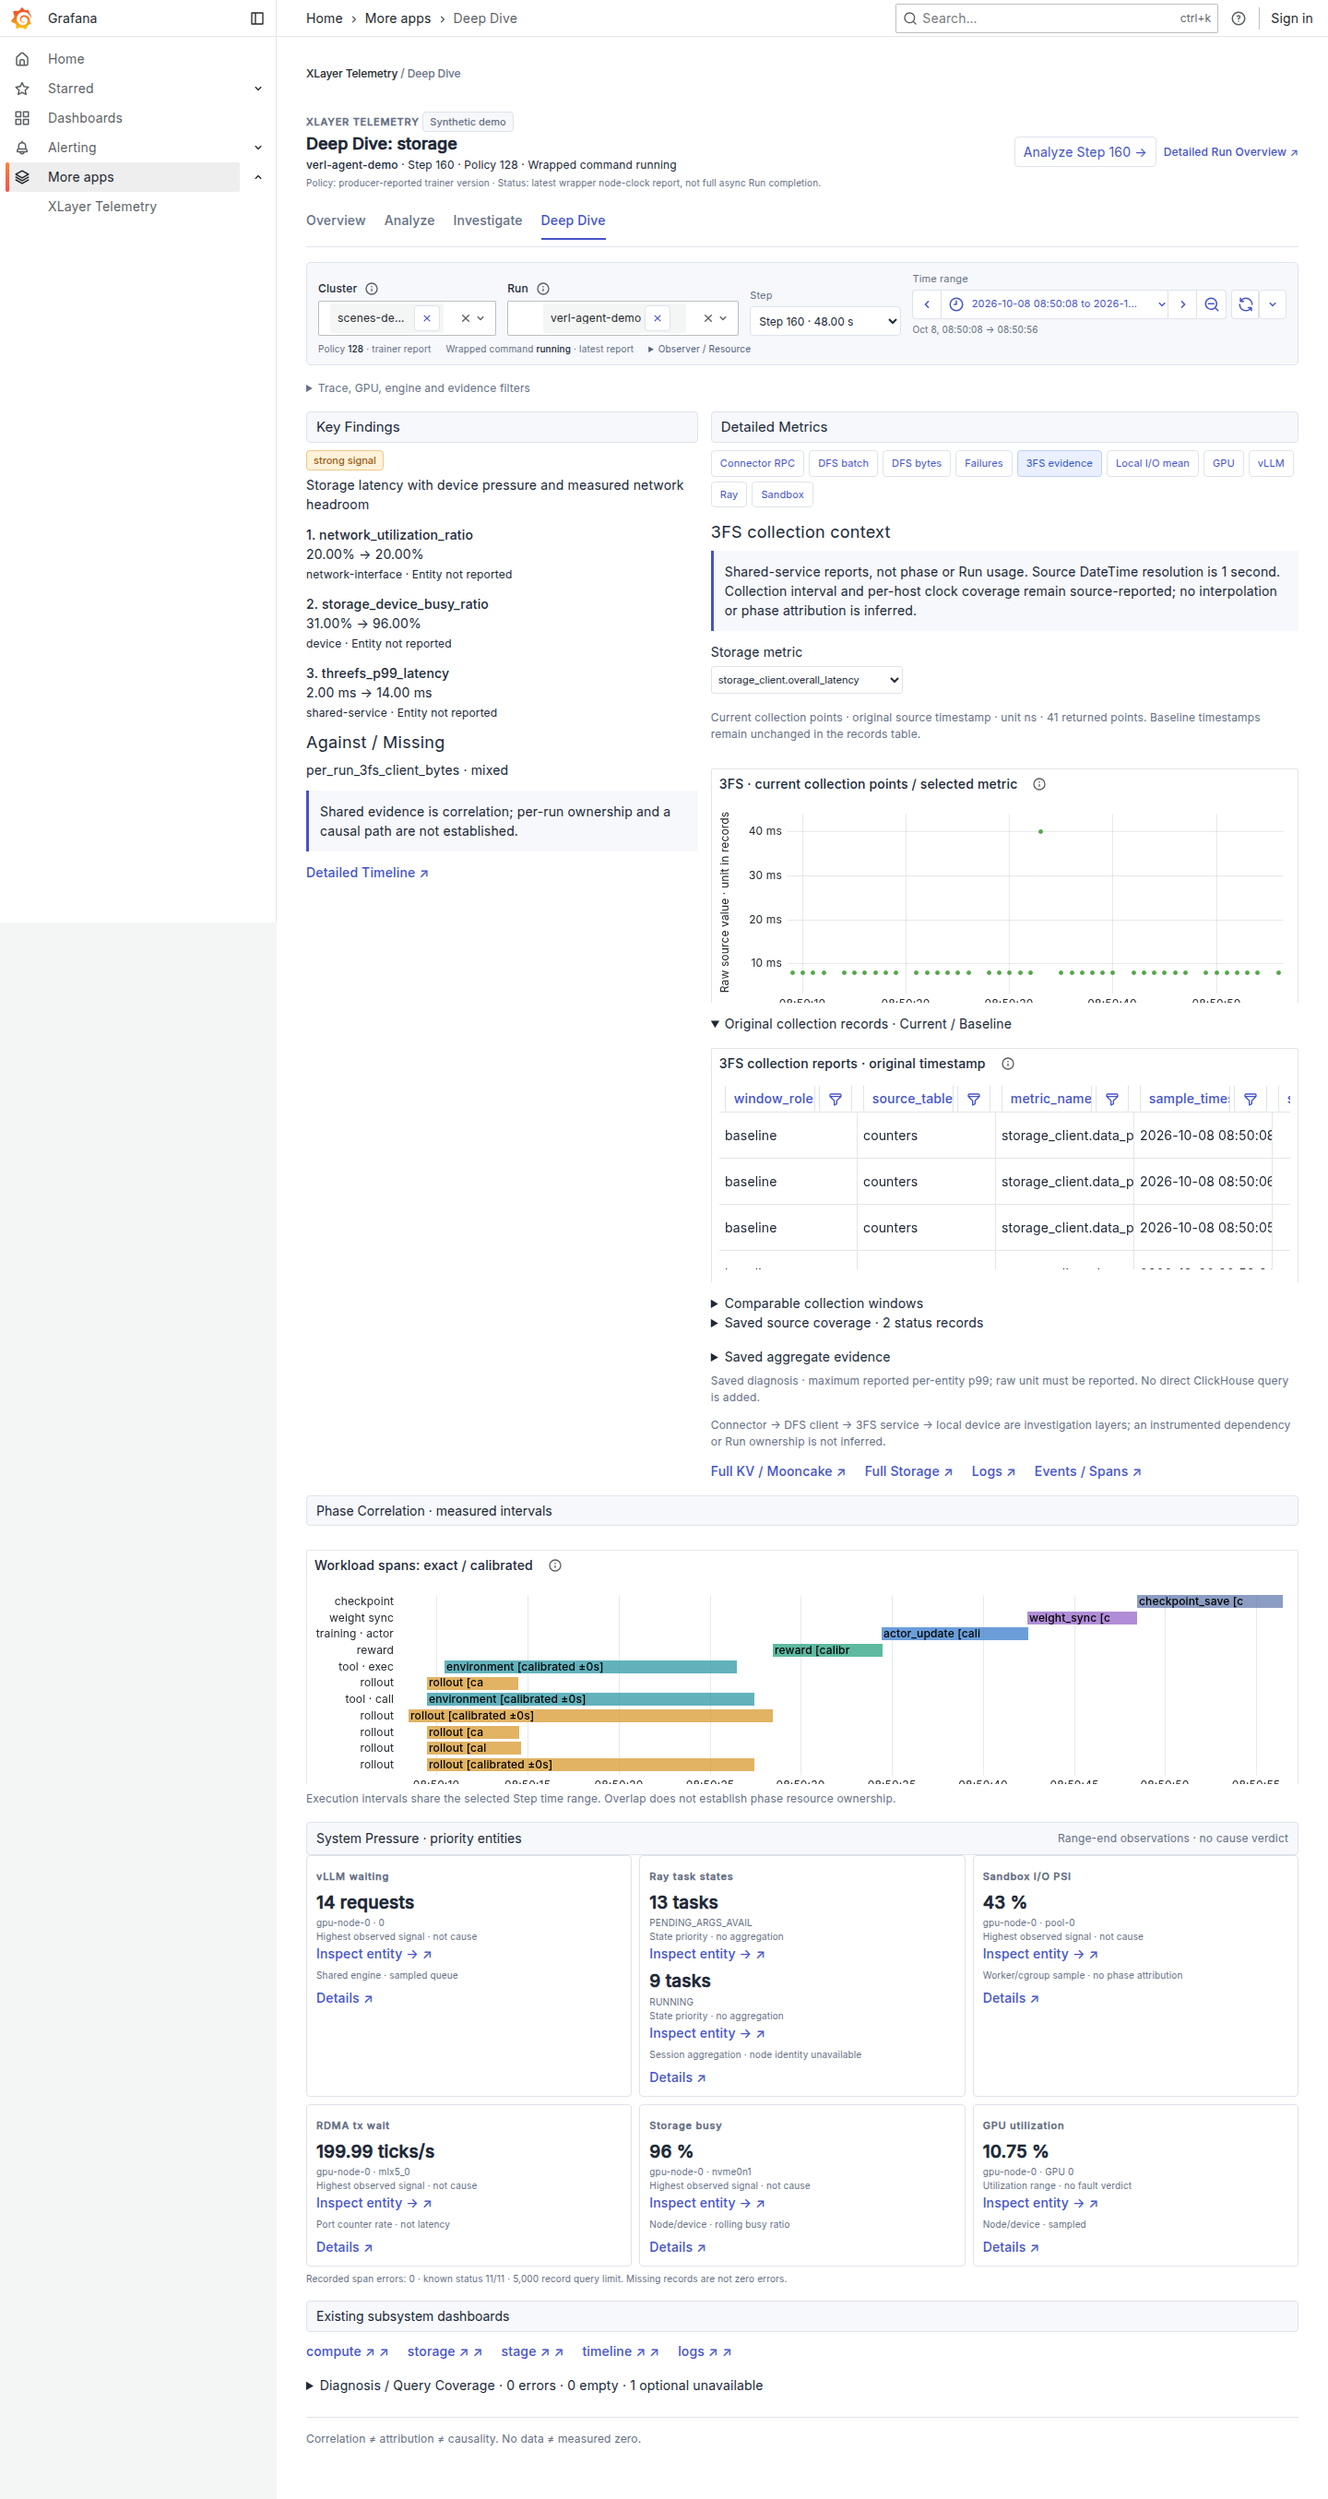
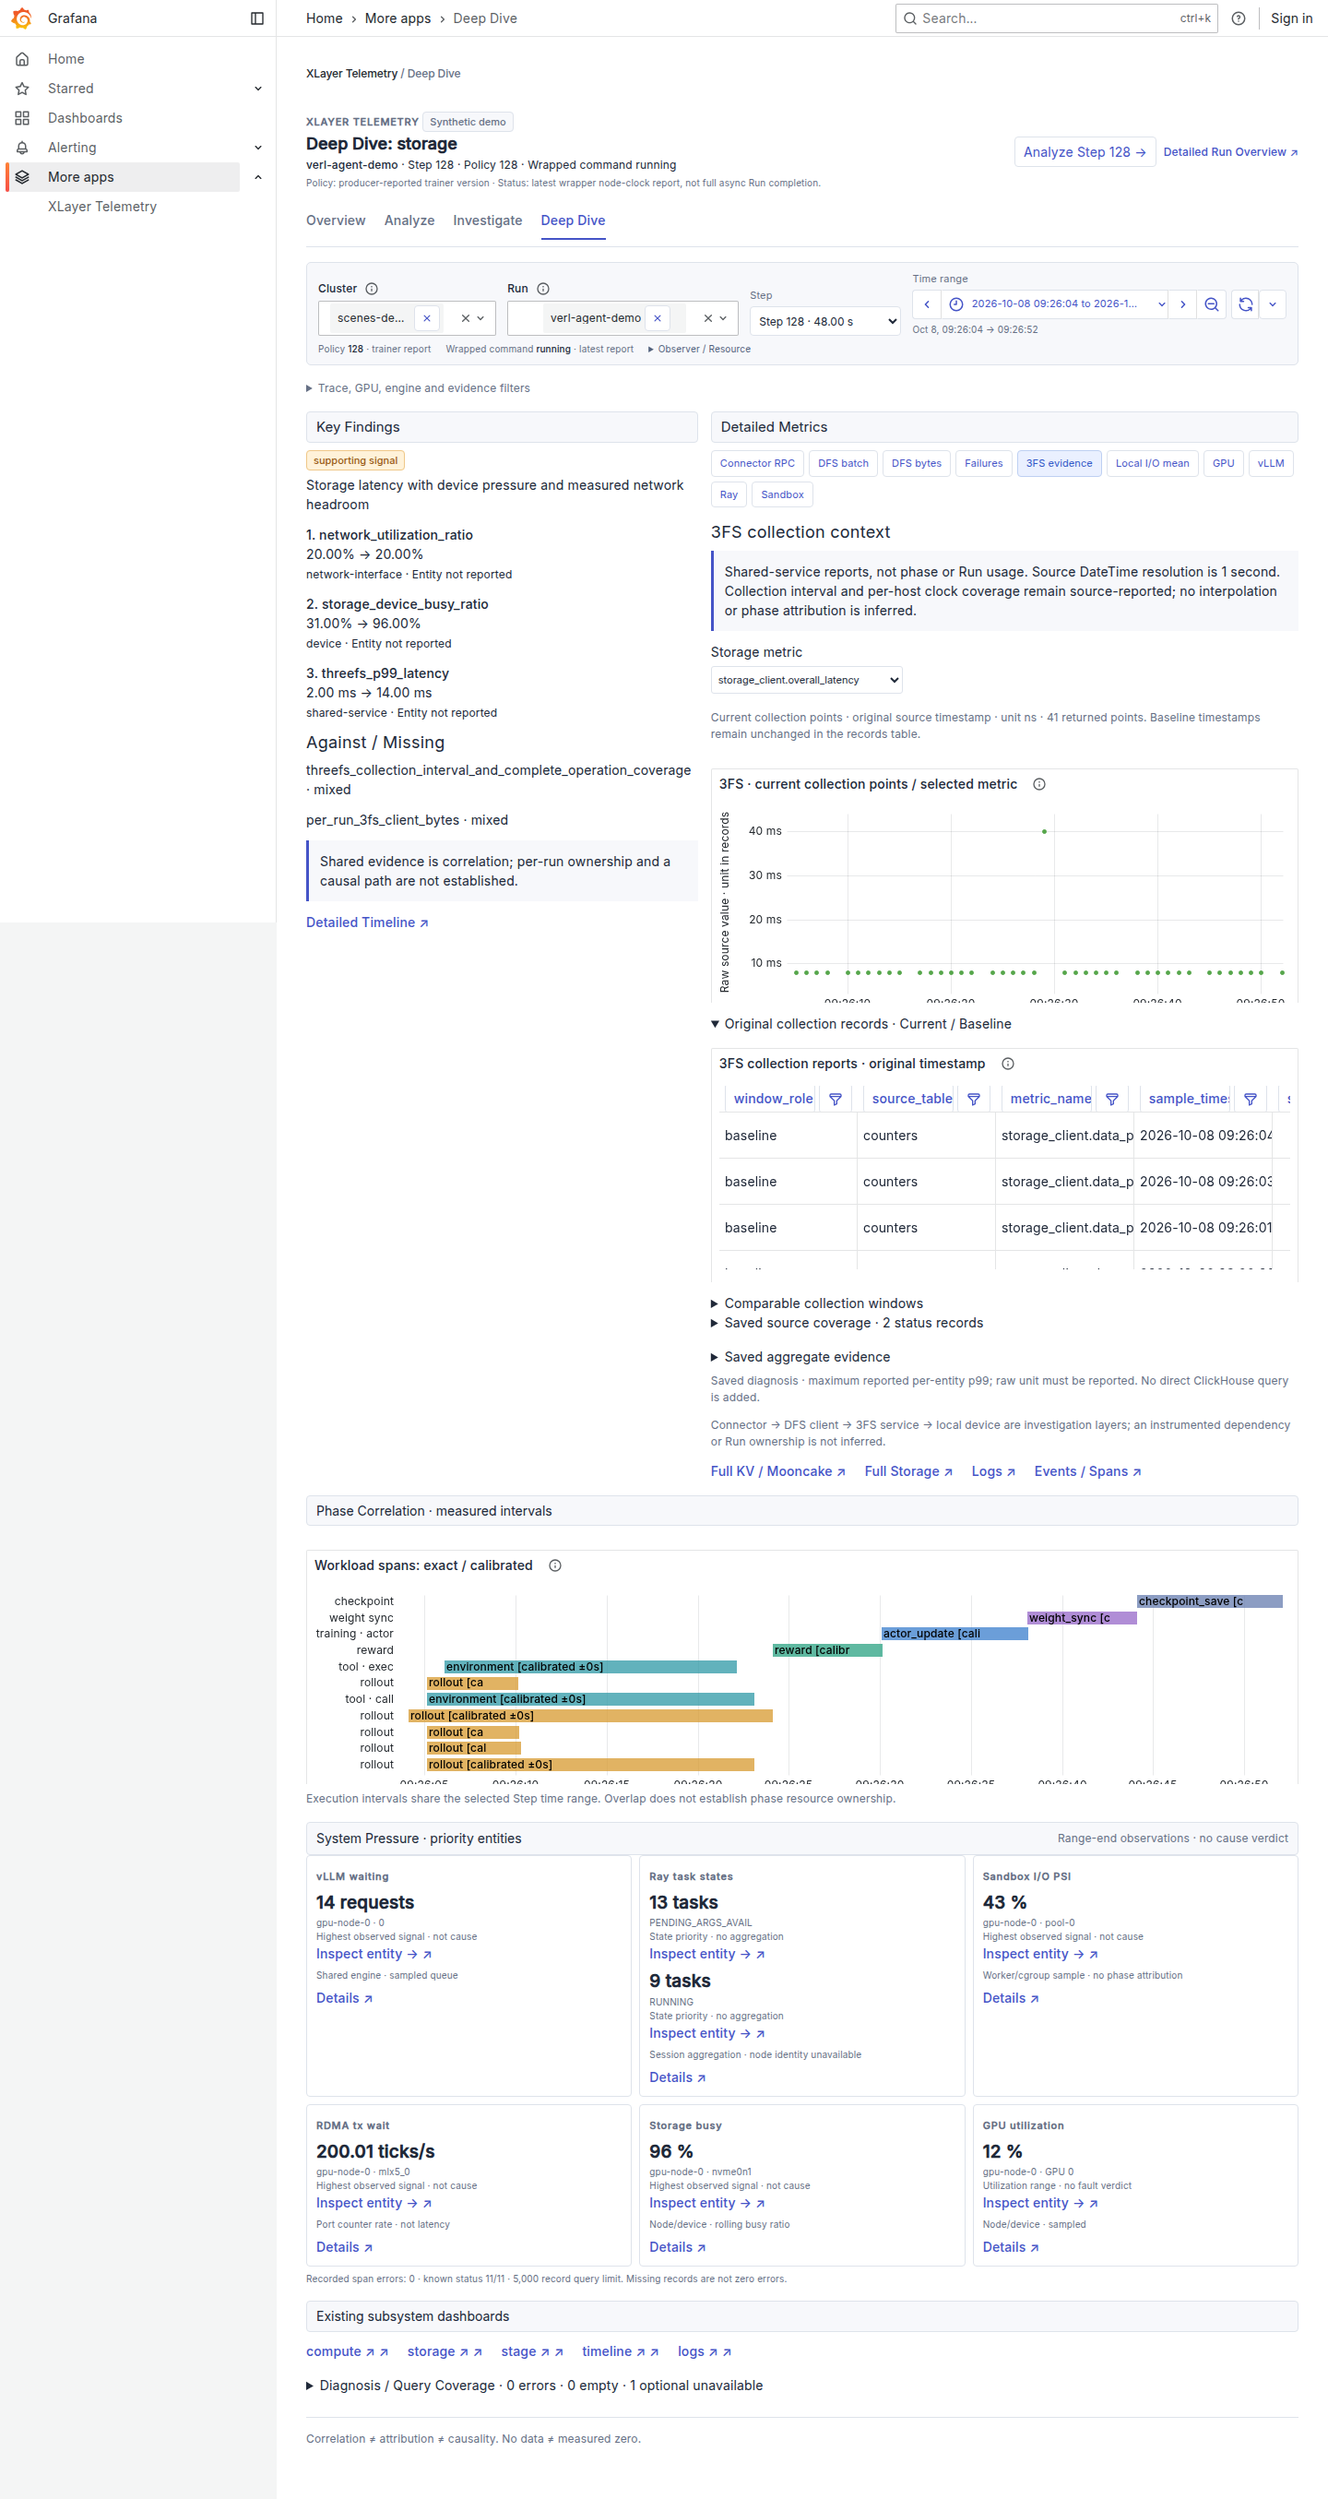
Preserve raw storage clock and producer comparison identity
Screen raw 3FS producer clocks independently of mapped application clocks.
Use structured series identities so delimiter-containing labels cannot
merge distinct producer observations in native Grafana plots. Preserve
reset-report amounts but withhold deltas for unequal window exposure.

Share collection coverage limits between production diagnosis and the
explicit synthetic demo. Update the actual Grafana screenshot, bounded
query cost measurement and P0 limitations in the Korean task guide.

Validate 1,457 CPU tests with real promtool and isolated ClickHouse (no
skips), actual Grafana journeys at 1440/1280/900/390 pixels, and strict docs
build and link checks. Stop owned test services and preserve user stacks.

diff --git a/xlayer_telemetry/analysis/storage_series.py b/xlayer_telemetry/analysis/storage_series.py
@@ -2,6 +2,8 @@
 from __future__ import annotations
 
 from collections import defaultdict
+import json
+import math
 from typing import Mapping
 
 from ..measurements import finite_number as finite
@@ -33,7 +35,11 @@ def validate_series_settings(settings: Mapping) -> dict:
 def _quality(window, rows, clock, settings, queried_at):
     hosts = sorted({row.get("labels", {}).get("host") for row in rows if row.get("labels", {}).get("host")})
     aliases = settings.get("host_clock_nodes", {})
-    nodes = {**clock.get("nodes", {}), **clock.get("producer_clock_screening", {}).get("nodes", {})}
+    # A mapped workload clock says nothing about uncalibrated ClickHouse
+    # producer timestamps. Only their raw OS/producer screening is usable.
+    nodes = (clock.get("system_clock_screening", {}).get("nodes", {})
+             if clock.get("scope") == "mapped_workload_to_prometheus_scrape_time" else clock.get("nodes", {}))
+    nodes = {**nodes, **clock.get("producer_clock_screening", {}).get("nodes", {})}
     aligned = bool(hosts) and clock.get("status") == "aligned" and all(
         aliases.get(host) in nodes and nodes[aliases[host]].get("status") == "aligned" for host in hosts)
     issues = ["collection_interval_unknown", "zero_suppression_or_loss_not_distinguishable"]
@@ -98,6 +104,10 @@ def collect_storage_series(client, current_window, baseline_window, *, settings,
     current, baseline = result.get("current", {}), result.get("baseline", {})
     eligible = all(entry.get("quality", {}).get("host_clock_coverage") == "screened_aligned" for entry in (current, baseline))
     result["comparison"]["eligible"] = eligible
+    windows = [entry.get("window", {}) for entry in (current, baseline)]
+    equal_exposure = all("start" in window and "end" in window for window in windows) and (
+        math.isclose(windows[0]["end"]-windows[0]["start"], windows[1]["end"]-windows[1]["start"], abs_tol=1e-6)
+        and math.ceil(windows[0]["end"])-math.ceil(windows[0]["start"]) == math.ceil(windows[1]["end"])-math.ceil(windows[1]["start"]))
     # Keep exact table+metric+producer population; window statistics are not
     # pooled quantiles or complete operation totals, even with aligned clocks.
     def groups(entry):
@@ -111,6 +121,7 @@ def collect_storage_series(client, current_window, baseline_window, *, settings,
     for key in sorted(a.keys() & b.keys()):
         table, metric, labels = key
         unit = settings.get("distribution_units", {}).get(metric) if table == "distributions" else a[key][0].get("unit")
+        status = "shared_report_window" if eligible else "clock_unverified"
         if table == "distributions":
             values = [[finite(row.get("max_observed_p99")) for row in group] for group in (a[key], b[key])]
             statistic = "maximum reported p99, not pooled p99"
@@ -123,12 +134,15 @@ def collect_storage_series(client, current_window, baseline_window, *, settings,
             if any(not group or any(value is None for value in group) for group in values):
                 continue
             now, before = sum(values[0]), sum(values[1])
+            if eligible and not equal_exposure:
+                status = "different_report_window_exposure"
         else:
             continue
         result["comparison"]["rows"].append({"metricName": metric, "labels": dict(labels), "table": table,
-            "current": now, "baseline": before, "delta": now-before if eligible else None,
-            "delta_percent": 100*(now-before)/abs(before) if eligible and before else None,
-            "unit": unit, "statistic": statistic, "comparison_status": "shared_report_window" if eligible else "clock_unverified"})
+            "current": now, "baseline": before, "delta": now-before if status == "shared_report_window" else None,
+            "delta_percent": 100*(now-before)/abs(before) if status == "shared_report_window" and before else None,
+            "unit": unit, "statistic": statistic, "comparison_status": status,
+            "host_clock_coverage": "screened_aligned" if eligible else "unknown"})
     return result
 
 
@@ -149,7 +163,8 @@ def project_storage_series(series, common):
                     "source_table": table, "metric_name": point["metricName"], "signal": point["metricName"],
                     "sample_timestamp_ms": point["timestamp_seconds"]*1000,
                     "sample_value": value, "unit": unit, "entity": entity, "source_host": point["labels"].get("host"),
-                    "series_key": f"{table}:{point['metricName']}:{entity}", "observation_scope": "shared-service",
+                    "series_key": json.dumps([table, point['metricName'], sorted(point['labels'].items())], ensure_ascii=False, separators=(",", ":")),
+                    "observation_scope": "shared-service",
                     "observation_type": "collection_report", "timestamp_resolution_seconds": 1,
                     "collection_interval": "unknown", "host_clock_coverage": quality.get("host_clock_coverage", "unknown"),
                     "phase_attribution": "not_established", "counter_kind": point.get("kind"),
@@ -159,6 +174,18 @@ def project_storage_series(series, common):
                     "ambiguous_sample": point.get("ambiguous_sample", False)})
                 rows[-1]["plot_eligible"] = value is not None and (reset or not point.get("ambiguous_sample", False))
     return rows
+
+
+def apply_collection_limits(candidates):
+    """Keep demo and production evidence subject to the same source limits."""
+    for candidate in candidates:
+        if any(str(item.get("signal", "")).startswith("threefs_") for item in candidate.get("evidence", [])):
+            missing = candidate.setdefault("missing_evidence", [])
+            issue = "threefs_collection_interval_and_complete_operation_coverage"
+            if issue not in missing:
+                missing.append(issue)
+            if candidate["state"] == "strong_signal":
+                candidate["state"] = "supporting_signal"
 
 
 def project_storage_summary(series, common):
@@ -183,8 +210,8 @@ def project_storage_summary(series, common):
             "source_table": row["table"], "current": row["current"], "baseline": row["baseline"],
             "delta_percent": row["delta_percent"], "unit": row["unit"], "statistic": row["statistic"],
             "comparison_status": row["comparison_status"],
-            "clock_status": "screened_aligned" if row["comparison_status"] == "shared_report_window" else "unknown",
-            "host_clock_coverage": "screened_aligned" if row["comparison_status"] == "shared_report_window" else "unknown",
+            "clock_status": row.get("host_clock_coverage", "screened_aligned" if row["comparison_status"] == "shared_report_window" else "unknown"),
+            "host_clock_coverage": row.get("host_clock_coverage", "screened_aligned" if row["comparison_status"] == "shared_report_window" else "unknown"),
             "quality_issues": "collection_interval_unknown, returned_reports_only",
             "entity": ",".join(f"{key}={value}" for key, value in sorted(row["labels"].items())),
             "observation_scope": "shared-service", "phase_attribution": "not_established"})

diff --git a/tests/test_storage_series_correlation.py b/tests/test_storage_series_correlation.py
@@ -139,3 +139,62 @@ def test_cli_explicit_window_requires_both_bounds_and_does_not_reset_user_state(
     for args in ({'start':100},{'end':105},{'start':105,'end':100},{'start':100,'end':4000}):
         with pytest.raises(ValueError):inspect_threefs({},**args)
     assert inspect_threefs({},start=100,end=105,series=True)=={'status':'not_configured'}
+
+
+def test_application_calibration_is_not_source_collection_clock_alignment():
+    clock={'status':'aligned','scope':'mapped_workload_to_prometheus_scrape_time',
+           'nodes':{'trainer':{'status':'aligned'}},
+           'system_clock_screening':{'status':'unsafe','nodes':{'trainer':{'status':'unsafe'}}}}
+    result=collect_storage_series(Source([distribution(101,10)]),{'start':100,'end':105},None,
+        settings=settings(host_clock_nodes={'storage-a':'trainer'}),clock_quality=clock,queried_at=200)
+    assert result['current']['quality']['host_clock_coverage']=='unknown'
+
+
+def test_structured_series_identity_cannot_collide_on_label_delimiters():
+    first, second = distribution(101, 10), distribution(102, 20)
+    first['labels'].update(tag='a,thread=x', thread='y')
+    second['labels'].update(tag='a', thread='x,thread=y')
+    result = collect_storage_series(Source([first, second]), {'start':100, 'end':105}, None,
+        settings=settings(), clock_quality={}, queried_at=200)
+    rows = project_storage_series(result, {'observed_at':105})
+    assert rows[0]['series_key'] != rows[1]['series_key']
+    first['labels'] = dict(reversed(list(first['labels'].items())))
+    repeated = collect_storage_series(Source([first]), {'start':100, 'end':105}, None,
+        settings=settings(), clock_quality={}, queried_at=200)
+    assert project_storage_series(repeated, {'observed_at':105})[0]['series_key'] == rows[0]['series_key']
+
+
+@pytest.mark.parametrize('end, status, delta', [
+    (110, 'different_report_window_exposure', None),
+    (105, 'shared_report_window', 50),
+])
+def test_reset_report_amount_delta_requires_equal_window_exposure(end, status, delta):
+    class Counters(Source):
+        def query_counter_series(self, start, end, **kwargs):
+            return [{'timestamp_seconds':start+1, 'metricName':'storage_client.data_payload_bytes',
+                     'labels':dict(LABELS), 'kind':'reset_after_collect', 'unit':'bytes',
+                     'observed_sum':100 if start == 100 else 50}]
+    clock = {'status':'aligned', 'nodes':{'storage-monitor':{'status':'aligned'}}}
+    clock['baseline'] = {'status':'aligned', 'nodes':clock['nodes']}
+    result = collect_storage_series(Counters([]), {'start':100, 'end':end}, {'start':80, 'end':85},
+        settings=settings(counter_metrics=['storage_client.data_payload_bytes'],
+                          host_clock_nodes={'storage-a':'storage-monitor'}),
+        clock_quality=clock, queried_at=200)
+    row, = result['comparison']['rows']
+    assert row['current'] == 100 and row['baseline'] == 50
+    assert row['delta'] == delta
+    assert row['delta_percent'] == (100 if delta is not None else None)
+    assert row['comparison_status'] == status
+    from xlayer_telemetry.analysis.storage_series import project_storage_summary
+    summary = next(row for row in project_storage_summary(result, {}) if row['row_kind'] == 'storage_comparison')
+    assert summary['host_clock_coverage'] == 'screened_aligned'
+
+
+def test_storage_series_demo_preserves_production_candidate_coverage_limits(tmp_path):
+    from xlayer_telemetry.demos.diagnosis import generate
+    report = generate(tmp_path/'demo', run_id='synthetic-storage-coverage', clock=lambda:2000, storage_series=True)
+    candidates = [candidate for candidate in report['candidates']
+                  if any(str(item.get('signal','')).startswith('threefs_') for item in candidate.get('evidence',[]))]
+    assert candidates
+    assert all(candidate['state'] != 'strong_signal' for candidate in candidates)
+    assert all('threefs_collection_interval_and_complete_operation_coverage' in candidate['missing_evidence'] for candidate in candidates)

diff --git a/xlayer_telemetry/analysis/diagnostics.py b/xlayer_telemetry/analysis/diagnostics.py
@@ -32,7 +32,7 @@ from ..prometheus import PrometheusClient, escape_label
 from .query_budget import QueryBudget
 from .metric_queries import MetricQuery, PROFILE_SIGNALS, profile_queries, validate_metric_profiles
 from .jsonl_cache import JSONLCache, from_config as cache_from_config
-from .storage_series import collect_storage_series, project_storage_series, project_storage_summary, validate_series_settings
+from .storage_series import apply_collection_limits, collect_storage_series, project_storage_series, project_storage_summary, validate_series_settings
 
 # Keep the existing local opener hook while bounding credential redirects.
 urlopen = build_opener(_CredentialSafeRedirectHandler()).open
@@ -1053,11 +1053,7 @@ class DiagnosticEngine:
             for role in ("current", "baseline"):
                 for issue in storage_series.get(role, {}).get("errors", []):
                     missing.append(f"threefs:series:{role}:{issue}")
-            for candidate in candidates:
-                if any(str(item.get("signal", "")).startswith("threefs_") for item in candidate.get("evidence", [])):
-                    candidate["missing_evidence"].append("threefs_collection_interval_and_complete_operation_coverage")
-                    if candidate["state"] == "strong_signal":
-                        candidate["state"] = "supporting_signal"
+            apply_collection_limits(candidates)
         if unsafe_timing:
             # Keep raw evidence inspectable; do not use an unaligned resource
             # window as a bottleneck hypothesis for this workload interval.

diff --git a/xlayer_telemetry/demos/diagnosis.py b/xlayer_telemetry/demos/diagnosis.py
@@ -209,7 +209,9 @@ def generate(output: Path, *, run_id: str, node: str = "synthetic-node", clock=t
     }
     if storage_series:
         from .storage_series import synthetic_storage_series
+        from ..analysis.storage_series import apply_collection_limits
         report['storage_series']=synthetic_storage_series(window,prior['analysis_window'],slow=bool(candidates))
+        apply_collection_limits(candidates)
     write_report(output / "diagnostics", report)
     # Use the same discovery and inspect paths as a wrapped workload. These are
     # synthetic application values, not measurements of the host or its storage.
